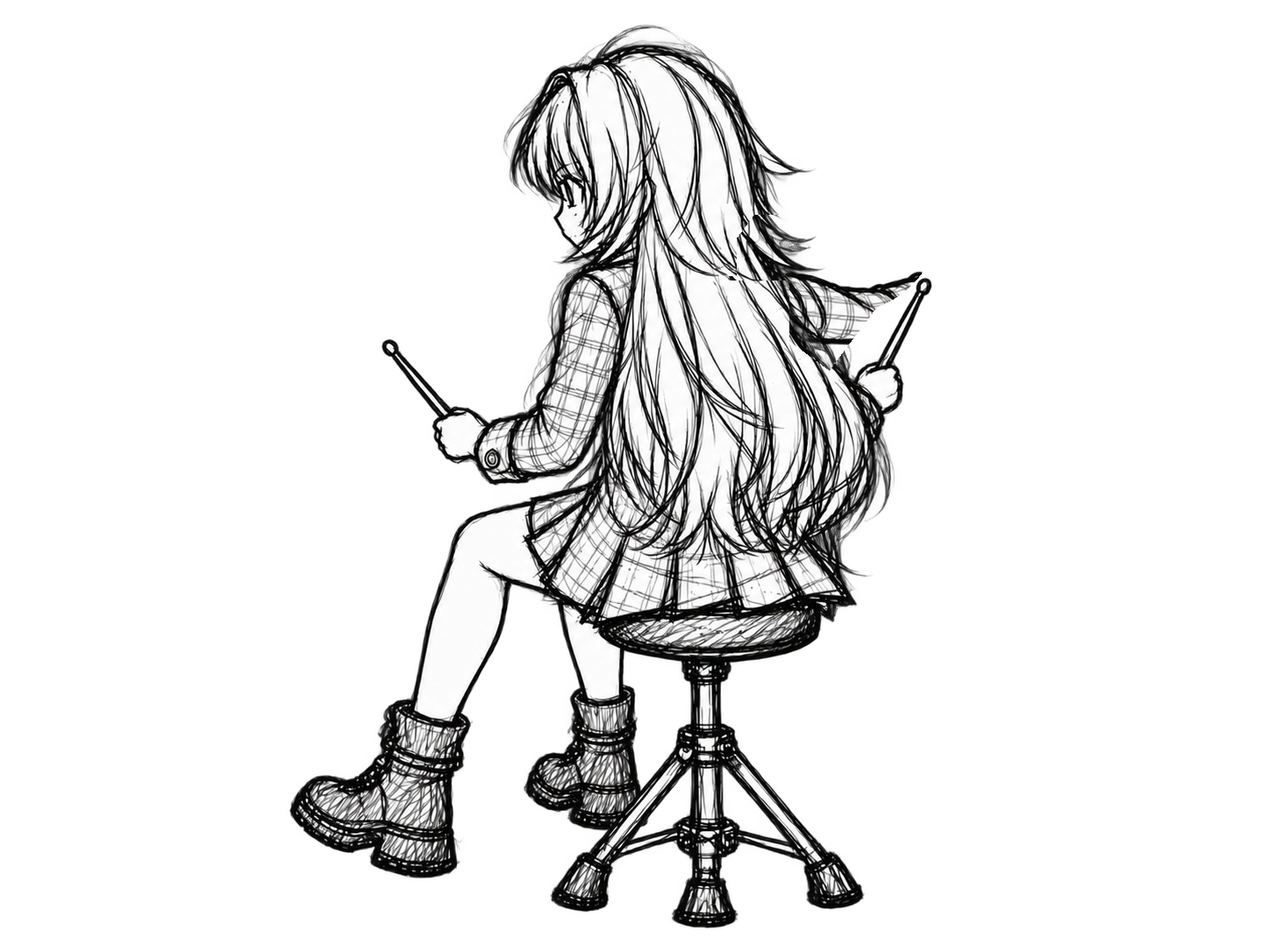
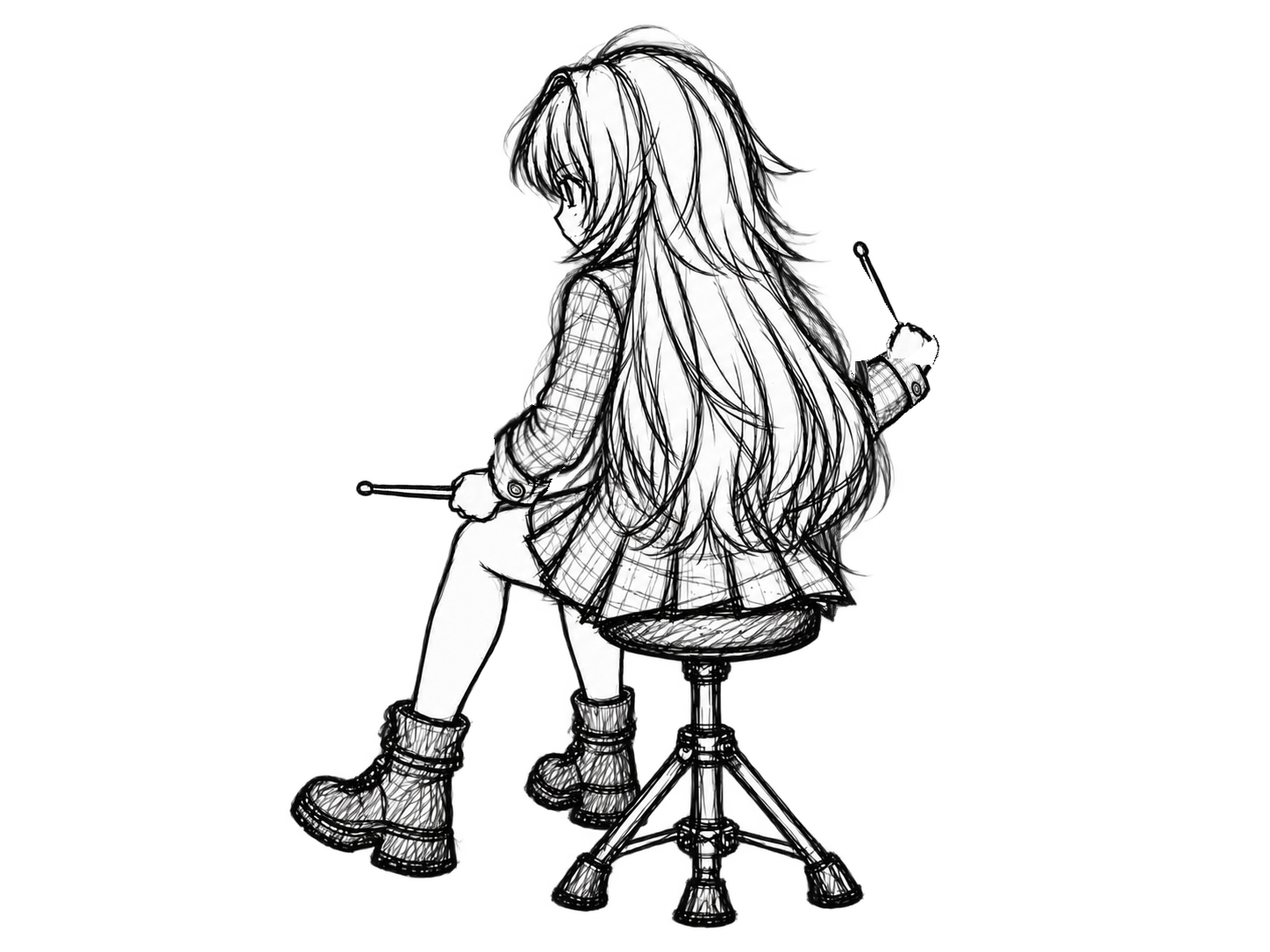
Add source-bound ride Hit/Rebound pairs and immutable kit occlusion layers; checkpoint 8 of 30 pairs

Changed region(s): [[0.5594, 0.2127, 0.7459, 0.4558], [0.2797, 0.4254, 0.4662, 0.547], [0.3108, 0.3646, 0.3419, 0.4254]]

diff --git a/site/character-prototype.js b/site/character-prototype.js
@@ -4,12 +4,12 @@ const DEFAULT_MEASURE_END=4;
 const LIMB_URL="./charts/luna_say_maybe/Luna_say_maybe_full_limbs.json";
 const INVENTORY_URL="./character-assets/prototypes/luna_say_maybe_16m/asset_inventory.json";
 const ASSET_ROOT="./character-assets";
-const ASSET_VERSION="20261008-six-pairs-r3";
+const ASSET_VERSION="20261008-occlusion-r4";
 const DRUM="./character-assets/layers/drum/drum_base.png";
 const assetUrl=src=>src+(src.includes("?")?"&":"?")+"v="+ASSET_VERSION;
 
 let data=null,lastKey="",lastEffectToken="",ready=false,activeSong=false;
-const els={root:null,drum:null,character:null,label:null,effect:null,bursts:[]};
+const els={root:null,drum:null,character:null,drumFront:null,characterFront:null,label:null,effect:null,bursts:[]};
 function updateDevHud(extra=""){
   const hud=document.getElementById("devBuildHud");
   if(!hud)return;
@@ -30,6 +30,35 @@ setInterval(()=>updateDevHud(),250);
 const EFFECT_POINTS={HH:[190,390],SN:[420,535],BD:[735,650],HT:[575,360],LT:[885,455],FT:[1165,535],RC:[1215,145],RD:[965,250]};
 
 function loadImage(src){return new Promise((resolve,reject)=>{const image=new Image();image.onload=()=>resolve(src);image.onerror=()=>reject(new Error("image HTTP/load failure: "+src));image.src=assetUrl(src)})}
+
+// The fixed kit remains immutable. Foreground kit pixels hide the torso/hair;
+// only the source arms and actual pose delta are drawn back above it.
+let foregroundNeutral=null,foregroundArmMask=null,foregroundScratch=null;
+async function initForegroundLayers(){
+  if(!els.drumFront||!els.characterFront)return;
+  els.drumFront.src=assetUrl(ASSET_ROOT+"/layers/drum/drum_foreground_occlusion.png");
+  const neutral=new Image();
+  await new Promise((resolve,reject)=>{neutral.onload=resolve;neutral.onerror=reject;neutral.src=assetUrl(ASSET_ROOT+"/layers/character/base/neutral.png")});
+  foregroundScratch=document.createElement("canvas");foregroundScratch.width=1448;foregroundScratch.height=1086;
+  const ctx=foregroundScratch.getContext("2d",{willReadFrequently:true});ctx.drawImage(neutral,0,0);
+  foregroundNeutral=ctx.getImageData(0,0,1448,1086).data;
+  ctx.clearRect(0,0,1448,1086);ctx.fillStyle="#fff";
+  for(const polygon of [
+    [[420,376],[474,380],[527,454],[575,465],[615,450],[630,370],[648,317],[710,320],[716,392],[699,465],[674,513],[632,557],[602,548],[581,552],[530,551],[493,529],[480,490],[420,418]],
+    [[1048,308],[1068,310],[1038,401],[1043,466],[1008,475],[984,455],[974,432],[989,415],[1004,414]]
+  ]){ctx.beginPath();polygon.forEach(([x,y],i)=>i?ctx.lineTo(x,y):ctx.moveTo(x,y));ctx.closePath();ctx.fill()}
+  foregroundArmMask=ctx.getImageData(0,0,1448,1086).data;
+  renderForegroundCharacter();
+}
+function renderForegroundCharacter(){
+  if(!foregroundNeutral||!els.characterFront||!els.character?.complete||!els.character.naturalWidth)return;
+  const ctx=foregroundScratch.getContext("2d",{willReadFrequently:true});ctx.clearRect(0,0,1448,1086);ctx.drawImage(els.character,0,0,1448,1086);
+  const frame=ctx.getImageData(0,0,1448,1086),pixels=frame.data;
+  for(let i=0;i<pixels.length;i+=4){if(!foregroundArmMask[i+3]&&pixels[i]===foregroundNeutral[i]&&pixels[i+1]===foregroundNeutral[i+1]&&pixels[i+2]===foregroundNeutral[i+2]&&pixels[i+3]===foregroundNeutral[i+3])pixels[i+3]=0}
+  els.characterFront.getContext("2d").putImageData(frame,0,0);
+  els.characterFront.dataset.frame=els.root?.dataset.frame||"neutral";
+}
+
 function markAssetIssue(src){if(!els.root)return;els.root.dataset.assetIssue=src||"unknown";els.root.classList.add("asset-warning")}
 function groupNotes(notes){const groups=[];for(const n of notes){const g=groups.at(-1);if(g&&Math.abs(n.time-g[0].time)<=.008)g.push(n);else groups.push([n])}return groups}
 function noteIdentity(note){return [Number(note?.time).toFixed(6),note?.part||""].join("|")}
@@ -39,7 +68,7 @@ function exactKeyFor(group){const notes=[...group].sort((a,b)=>a.part.localeComp
 function keyFor(group,frameMap=data?.frameMap){const exact=exactKeyFor(group);if(frameMap?.[exact])return exact;const parts=[...new Set(group.map(n=>n.part))].sort();if(parts.length>1){const combo=parts.join("+")+":*";if(frameMap?.[combo])return combo}return exact}
 function assetFor(group,phase="hit"){if(phase==="neutral")return data?.frames?.neutral?.path||"layers/character/base/neutral.png";const key=keyFor(group);const phases=data?.phaseFrameMap?.[key];const frameId=phases?.[phase]||data?.frameMap?.[key]||"neutral";return data?.frames?.[frameId]?.path||"layers/character/base/neutral.png"}
 function validatePrototypeCoverage(inventory,scopedNotes,groups){const scope=inventory.runtimeScope||{};if(scopedNotes.length!==Number(scope.noteCount||0))throw new Error("prototype note count mismatch");if(groups.length!==Number(scope.groupCount||0))throw new Error("prototype group count mismatch");if(scopedNotes.some(note=>!note.limb))throw new Error("prototype limb assignments missing");const expectedKeys=new Set(scope.expectedKeys||[]),actualKeys=new Set();for(const group of groups){const key=keyFor(group,inventory.runtimeFrameMap);actualKeys.add(key);if(!inventory.runtimeFrameMap?.[key])throw new Error("prototype frame missing for "+key);for(const phase of ["prep","hit","rebound"]){const frameId=inventory.runtimePhaseFrameMap?.[key]?.[phase];if(!frameId||!inventory.requiredFrames?.[frameId])throw new Error("prototype phase frame missing for "+key+"."+phase)}}const missing=[...expectedKeys].filter(key=>!actualKeys.has(key)),unexpected=[...actualKeys].filter(key=>!expectedKeys.has(key));if(missing.length||unexpected.length)throw new Error("prototype key mismatch missing="+missing.join(",")+" unexpected="+unexpected.join(","))}
-function setFrame(path,label="",phase="neutral"){if(!els.character)return;const src=assetUrl(ASSET_ROOT+"/"+path);if(lastKey!==src){lastKey=src;els.character.src=src}if(els.label)els.label.textContent=label;if(els.root){els.root.dataset.frame=path;els.root.dataset.pose=label;els.root.dataset.phase=phase}}
+function setFrame(path,label="",phase="neutral"){if(!els.character)return;const src=assetUrl(ASSET_ROOT+"/"+path);if(lastKey!==src){lastKey=src;if(els.characterFront)els.characterFront.getContext("2d").clearRect(0,0,1448,1086);els.character.src=src}if(els.label)els.label.textContent=label;if(els.root){els.root.dataset.frame=path;els.root.dataset.pose=label;els.root.dataset.phase=phase}}
 function normalizedPlaybackRate(playbackRate=1){
   const rate=Number(playbackRate);
   return Number.isFinite(rate)&&rate>0?rate:1;
@@ -81,8 +110,8 @@ function phaseFor(group,time,playbackRate=1){
   return "neutral";
 }
 function triggerEffect(group,phase){if(!els.effect)return;if(!group||phase!=="hit"){lastEffectToken="";els.effect.dataset.parts="";els.bursts.forEach(b=>b.classList.remove("is-active"));return}const token=String(group[0].time);if(token===lastEffectToken)return;lastEffectToken=token;const parts=[...new Set(group.map(n=>n.part))],points=parts.map(p=>EFFECT_POINTS[p]).filter(Boolean).slice(0,3);els.effect.dataset.parts=parts.join("+");els.bursts.forEach((burst,index)=>{burst.classList.remove("is-active");const point=points[index];if(!point)return;burst.setAttribute("transform",`translate(${point[0]} ${point[1]})`);void burst.getBoundingClientRect();burst.classList.add("is-active")})}
-export async function initCharacterPrototype(){els.root=document.getElementById("characterBackdrop");els.drum=document.getElementById("drumLayer");els.character=document.getElementById("characterLayer");els.label=document.getElementById("characterPoseLabel");els.effect=document.getElementById("effectLayer");els.bursts=[document.getElementById("effectPrimary"),document.getElementById("effectSecondary"),document.getElementById("effectTertiary")].filter(Boolean);if(!els.root||!els.drum||!els.character)return;els.drum.src=assetUrl(DRUM);els.character.src=assetUrl(ASSET_ROOT+"/layers/character/base/neutral.png");const fail=e=>{markAssetIssue(e?.target?.src||"dom-image-load");els.root.dataset.state="asset-warning"};els.drum.addEventListener("error",fail);els.character.addEventListener("error",fail);try{const [notesResponse,inventoryResponse,limbResponse]=await Promise.all([fetch(PROTOTYPE_URL,{cache:"no-store"}),fetch(INVENTORY_URL,{cache:"no-store"}),fetch(LIMB_URL,{cache:"no-store"})]);if(!notesResponse.ok)throw new Error("prototype HTTP "+notesResponse.status);if(!inventoryResponse.ok)throw new Error("inventory HTTP "+inventoryResponse.status);if(!limbResponse.ok)throw new Error("limb HTTP "+limbResponse.status);const [json,inventory,limbData]=await Promise.all([notesResponse.json(),inventoryResponse.json(),limbResponse.json()]);const limbMap=new Map((limbData.assignments||[]).map(item=>[[Number(item.time).toFixed(6),item.part||""].join("|"),item.limb]));for(const note of json.notes||[]){const resolved=limbMap.get(noteIdentity(note));if(resolved)note.limb=resolved}const startMeasure=Number(inventory.runtimeScope?.measureStart??DEFAULT_MEASURE_START),endMeasure=Number(inventory.runtimeScope?.measureEnd??DEFAULT_MEASURE_END);if(!Number.isInteger(startMeasure)||!Number.isInteger(endMeasure)||endMeasure<startMeasure)throw new Error("invalid inventory runtimeScope");const scopedNotes=(json.notes||[]).filter(note=>note.measure>=startMeasure&&note.measure<=endMeasure),groups=groupNotes(scopedNotes);validatePrototypeCoverage(inventory,scopedNotes,groups);data={...json,groups,frames:inventory.requiredFrames||{},frameMap:inventory.runtimeFrameMap||{},phaseFrameMap:inventory.runtimePhaseFrameMap||{},motionTiming:inventory.motionTiming||{},fallbackKeys:new Set(inventory.runtimeFallbackKeys||[]),startMeasure,endMeasure,prototypeEndTime:Math.max(...scopedNotes.map(note=>note.time),0)+.35};const sources=[
-  DRUM,
+export async function initCharacterPrototype(){els.root=document.getElementById("characterBackdrop");els.drum=document.getElementById("drumLayer");els.character=document.getElementById("characterLayer");els.drumFront=document.getElementById("drumFrontLayer");els.characterFront=document.getElementById("characterFrontLayer");els.label=document.getElementById("characterPoseLabel");els.effect=document.getElementById("effectLayer");els.bursts=[document.getElementById("effectPrimary"),document.getElementById("effectSecondary"),document.getElementById("effectTertiary")].filter(Boolean);if(!els.root||!els.drum||!els.character)return;els.drum.src=assetUrl(DRUM);els.character.src=assetUrl(ASSET_ROOT+"/layers/character/base/neutral.png");const fail=e=>{markAssetIssue(e?.target?.src||"dom-image-load");els.root.dataset.state="asset-warning"};els.drum.addEventListener("error",fail);els.character.addEventListener("error",fail);els.drumFront?.addEventListener("error",fail);els.character.addEventListener("load",renderForegroundCharacter);try{await initForegroundLayers();const [notesResponse,inventoryResponse,limbResponse]=await Promise.all([fetch(PROTOTYPE_URL,{cache:"no-store"}),fetch(INVENTORY_URL,{cache:"no-store"}),fetch(LIMB_URL,{cache:"no-store"})]);if(!notesResponse.ok)throw new Error("prototype HTTP "+notesResponse.status);if(!inventoryResponse.ok)throw new Error("inventory HTTP "+inventoryResponse.status);if(!limbResponse.ok)throw new Error("limb HTTP "+limbResponse.status);const [json,inventory,limbData]=await Promise.all([notesResponse.json(),inventoryResponse.json(),limbResponse.json()]);const limbMap=new Map((limbData.assignments||[]).map(item=>[[Number(item.time).toFixed(6),item.part||""].join("|"),item.limb]));for(const note of json.notes||[]){const resolved=limbMap.get(noteIdentity(note));if(resolved)note.limb=resolved}const startMeasure=Number(inventory.runtimeScope?.measureStart??DEFAULT_MEASURE_START),endMeasure=Number(inventory.runtimeScope?.measureEnd??DEFAULT_MEASURE_END);if(!Number.isInteger(startMeasure)||!Number.isInteger(endMeasure)||endMeasure<startMeasure)throw new Error("invalid inventory runtimeScope");const scopedNotes=(json.notes||[]).filter(note=>note.measure>=startMeasure&&note.measure<=endMeasure),groups=groupNotes(scopedNotes);validatePrototypeCoverage(inventory,scopedNotes,groups);data={...json,groups,frames:inventory.requiredFrames||{},frameMap:inventory.runtimeFrameMap||{},phaseFrameMap:inventory.runtimePhaseFrameMap||{},motionTiming:inventory.motionTiming||{},fallbackKeys:new Set(inventory.runtimeFallbackKeys||[]),startMeasure,endMeasure,prototypeEndTime:Math.max(...scopedNotes.map(note=>note.time),0)+.35};const sources=[
+  DRUM, ASSET_ROOT+"/layers/drum/drum_foreground_occlusion.png",
   ...[...new Set(Object.values(data.frames).map(frame=>ASSET_ROOT+"/"+frame.path))]
 ];let loadedSources=0;window.dispatchEvent(new CustomEvent("dtx-preload-progress",{detail:{kind:"character",done:0,total:sources.length,ratio:0,label:"人物画像を読み込み中"}}));const preloadResults=await Promise.allSettled(sources.map(async src=>{try{return await loadImage(src)}finally{loadedSources++;window.dispatchEvent(new CustomEvent("dtx-preload-progress",{detail:{kind:"character",done:loadedSources,total:sources.length,ratio:sources.length?loadedSources/sources.length:1,label:"人物画像を読み込み中"}}))}}));const failedSources=preloadResults.map((result,index)=>result.status==="rejected"?sources[index]:null).filter(Boolean);window.dispatchEvent(new CustomEvent("dtx-preload-progress",{detail:{kind:"character",done:sources.length,total:sources.length,ratio:1,label:failedSources.length?"人物画像の一部で読み込み失敗":"人物画像の読み込み完了",failed:failedSources.length}}));if(failedSources.length){markAssetIssue(failedSources.join(","));console.warn("character asset preload warning",failedSources)}ready=true;els.root.classList.add("character-ready");els.root.dataset.state=failedSources.length?"ready-with-asset-warning":"ready";els.root.dataset.scope=`${startMeasure}-${endMeasure}`;els.root.dataset.runtimeScope=`${startMeasure}-${endMeasure}`;els.root.dataset.noteCount=String(scopedNotes.length);els.root.dataset.groupCount=String(groups.length);updateDevHud("preload:ok")}catch(err){window.dispatchEvent(new CustomEvent("dtx-preload-progress",{detail:{kind:"character",ratio:1,label:"人物画像の初期化に失敗",failed:1}}));console.warn("character prototype initialization warning",err);els.root.dataset.state="init-warning";els.root.dataset.initError=String(err?.message||err);updateDevHud("init:warning");ready=true;els.root.classList.add("character-ready","asset-warning")}addEventListener("dtx-chart-change",e=>{activeSong=String(e.detail?.name||"").toLowerCase().includes("luna");els.root.classList.toggle("active",activeSong)})}
 export function updateCharacterPrototype(time,chartName="",playbackRate=1){if(!els.root)return;els.root.dataset.currentTime=Number(time||0).toFixed(6);activeSong=String(chartName||"").toLowerCase().includes("luna");const provisionalEnd=Number(data?.prototypeEndTime??10.47),inWindow=Number(time)>=0&&Number(time)<=provisionalEnd;els.root.classList.toggle("active",activeSong&&inWindow);els.root.dataset.active=String(activeSong&&inWindow);if(!ready||!data)return;if(!activeSong||!inWindow){triggerEffect(null,"neutral");return}const g=findGroupAt(time,playbackRate);if(!g){els.root.dataset.measure="";els.root.dataset.fallback="false";els.root.dataset.fallbackReason="";els.root.dataset.animationKey="neutral";els.root.dataset.limbs="";triggerEffect(null,"neutral");setFrame(data.frames.neutral.path,"NEUTRAL","neutral");return}const phase=phaseFor(g,time,playbackRate),resolvedKey=keyFor(g),fallback=fallbackInfo(g);els.root.dataset.measure=String(g[0]?.measure??"");els.root.dataset.fallback=String(fallback.fallback);els.root.dataset.fallbackReason=fallback.reason;els.root.dataset.animationKey=resolvedKey;els.root.dataset.limbs=g.map(n=>n.part+":"+handForNote(n)).join(",");const asset=assetFor(g,phase);const parts=[...new Set(g.map(n=>n.part))].sort().join("+"),hand=[...g].sort((a,b)=>a.part.localeCompare(b.part)).map(n=>handForNote(n)).filter(Boolean).join("/");triggerEffect(g,phase);setFrame(asset,phase==="neutral"?"NEUTRAL":parts+(hand?" · "+hand:"")+" · "+phase.toUpperCase(),phase);updateDevHud()}

diff --git a/site/index.html b/site/index.html
@@ -5,7 +5,7 @@
   <meta name="viewport" content="width=device-width,initial-scale=1,viewport-fit=cover,user-scalable=no">
   <meta name="theme-color" content="#2516ff">
   <title>DTX Drum Flow — FINAL Charts</title>
-  <link rel="stylesheet" href="./styles.css?v=20261008-six-pairs-r3">
+  <link rel="stylesheet" href="./styles.css?v=20261008-occlusion-r4">
   <style>
     :root{--luna-blue:#2516ff;--luna-ink:#070716;--luna-ivory:#f7f3ea;--luna-lime:#baff00}
     html,body{background:var(--luna-ink)}
@@ -33,7 +33,7 @@
       <label class="button huge secondary audio-picker">元音源を選ぶ<input id="audioFile" type="file" accept="audio/*" hidden></label>
       <div class="summary"><strong id="chartName">Luna say maybe FINAL 読み込み中…</strong><span id="chartMeta">BPM 139 · 2,158ノーツ</span></div>
     </section>
-    <section class="stage panel"><div class="stage-head"><span id="stageTitle">LUNA / DRUM CHART</span><span id="currentTime">0:00.0</span></div><div id="characterBackdrop" class="character-backdrop" aria-hidden="true"><img id="drumLayer" class="character-layer drum-layer" alt=""><img id="characterLayer" class="character-layer person-layer" alt=""><svg id="effectLayer" class="effect-layer" viewBox="0 0 1448 1086" preserveAspectRatio="xMidYMid meet"><g id="effectPrimary" class="effect-burst"><circle r="54"></circle><path d="M0-108V-72M76-76L51-51M108 0H72M76 76L51 51M0 108V72M-76 76L-51 51M-108 0H-72M-76-76L-51-51"></path></g><g id="effectSecondary" class="effect-burst"><circle r="54"></circle><path d="M0-108V-72M76-76L51-51M108 0H72M76 76L51 51M0 108V72M-76 76L-51 51M-108 0H-72M-76-76L-51-51"></path></g><g id="effectTertiary" class="effect-burst"><circle r="54"></circle><path d="M0-108V-72M76-76L51-51M108 0H72M76 76L51 51M0 108V72M-76 76L-51 51M-108 0H-72M-76-76L-51-51"></path></g></svg><span id="characterPoseLabel" class="character-pose-label"></span></div><canvas id="laneCanvas" aria-label="縦に流れるドラム譜面"></canvas><div class="seek-zone left" aria-label="4小節戻る"></div><div class="seek-zone right" aria-label="4小節進む"></div><div id="parts" class="parts" aria-label="ドラムパート"></div></section>
+    <section class="stage panel"><div class="stage-head"><span id="stageTitle">LUNA / DRUM CHART</span><span id="currentTime">0:00.0</span></div><div id="characterBackdrop" class="character-backdrop" aria-hidden="true"><img id="drumLayer" class="character-layer drum-layer" alt=""><img id="characterLayer" class="character-layer person-layer" alt=""><img id="drumFrontLayer" class="character-layer drum-front-layer" alt=""><canvas id="characterFrontLayer" class="character-layer character-front-layer" width="1448" height="1086"></canvas><svg id="effectLayer" class="effect-layer" viewBox="0 0 1448 1086" preserveAspectRatio="xMidYMid meet"><g id="effectPrimary" class="effect-burst"><circle r="54"></circle><path d="M0-108V-72M76-76L51-51M108 0H72M76 76L51 51M0 108V72M-76 76L-51 51M-108 0H-72M-76-76L-51-51"></path></g><g id="effectSecondary" class="effect-burst"><circle r="54"></circle><path d="M0-108V-72M76-76L51-51M108 0H72M76 76L51 51M0 108V72M-76 76L-51 51M-108 0H-72M-76-76L-51-51"></path></g><g id="effectTertiary" class="effect-burst"><circle r="54"></circle><path d="M0-108V-72M76-76L51-51M108 0H72M76 76L51 51M0 108V72M-76 76L-51 51M-108 0H-72M-76-76L-51-51"></path></g></svg><span id="characterPoseLabel" class="character-pose-label"></span></div><canvas id="laneCanvas" aria-label="縦に流れるドラム譜面"></canvas><div class="seek-zone left" aria-label="4小節戻る"></div><div class="seek-zone right" aria-label="4小節進む"></div><div id="parts" class="parts" aria-label="ドラムパート"></div></section>
     <section class="timeline-card panel"><input id="timeline" type="range" min="0" max="266.945306" value="0" step="0.001" aria-label="再生位置"><div class="time-row"><span>現在 <strong id="currentTimeMirror">0:00.0</strong></span><span>終了 <strong id="duration">4:26.9</strong></span></div></section>
     <section class="sound-controls panel" aria-label="音の切り替え"><label class="sound-toggle"><input id="drumSound" type="checkbox" checked><span>ドラム</span><strong id="drumSoundState">ON</strong></label><label class="sound-toggle"><input id="metronomeSound" type="checkbox"><span>メトロノーム</span><strong id="metronomeSoundState">OFF</strong></label><label class="sound-toggle"><input id="originalSound" type="checkbox" checked><span>原曲</span><strong id="originalSoundState">ON</strong></label></section>
     <details class="panel dev-audio-mixer"><summary>開発用・ドラム音量調整</summary><div id="devAudioMixer" class="dev-audio-mixer-body"></div><div class="dev-audio-actions"><button id="devAudioReset" class="button">完成音量へ戻す</button></div></details>
@@ -42,8 +42,8 @@
     <section class="panel status-panel"><h2>STATUS</h2><p id="status">FINAL譜面を自動読み込みしています…</p></section>
   </main>
   <nav class="mobile-transport" aria-label="再生操作"><button id="rewindMeasure" class="transport-side">−4小節</button><button id="playPause" class="transport-play is-loading" disabled aria-disabled="true" style="--play-load:0%">読み込み中 0%</button><button id="forwardMeasure" class="transport-side">＋4小節</button></nav>
-  <script type="module" src="./app.js?v=20261008-six-pairs-r3"></script>
-  <script type="module" src="./original-audio.js?v=20261008-six-pairs-r3"></script>
+  <script type="module" src="./app.js?v=20261008-occlusion-r4"></script>
+  <script type="module" src="./original-audio.js?v=20261008-occlusion-r4"></script>
   <script>setTimeout(()=>{if(!window.__DTX_APP_READY__){const s=document.getElementById("status");if(s)s.textContent="アプリ本体の読み込みに失敗しました。ページを再読み込みしてください。";}},1500);</script>
   <script src="./version-switcher.js?v=20260920-prepost-r1" defer></script>\n</body>
 </html>

diff --git a/site/styles.css b/site/styles.css
@@ -63,9 +63,10 @@ button,label.button,summary{touch-action:manipulation}
   position:absolute;inset:0;width:100%;height:100%;object-fit:contain;
   object-position:center center;user-select:none;
 }
-.drum-layer{z-index:0}.person-layer{z-index:1}
+.drum-layer{z-index:0}.person-layer{z-index:1}.drum-front-layer{z-index:2}
+.stage canvas.character-front-layer{position:absolute;inset:0;width:100%;height:100%;z-index:3;object-fit:contain;object-position:center;background:transparent;pointer-events:none}
 .effect-layer{
-  position:absolute;inset:0;width:100%;height:100%;z-index:2;overflow:visible;
+  position:absolute;inset:0;width:100%;height:100%;z-index:4;overflow:visible;
   filter:drop-shadow(0 0 8px #baff00);mix-blend-mode:screen
 }
 .effect-burst{opacity:0;transform-box:fill-box;transform-origin:center}
@@ -78,7 +79,7 @@ button,label.button,summary{touch-action:manipulation}
   100%{opacity:0;scale:1.55;rotate:10deg}
 }
 .character-pose-label{
-  position:absolute;right:6px;top:6px;z-index:3;padding:2px 5px;
+  position:absolute;right:6px;top:6px;z-index:5;padding:2px 5px;
   background:#0009;color:#fff;font-size:9px;border-radius:4px
 }
 .stage canvas{

diff --git a/site/app.js b/site/app.js
@@ -2,7 +2,7 @@ import {makeSample,parseChart} from "./parsers.js";
 import {decodeAudio,analyzeOnsets,realignNotes} from "./audio-analysis.js";
 import {LiveDrumEngine} from "./live-drum-engine.js?v=20260920-chart-preload-r2";
 import {applyDrumVoice} from "./drum-note-sound-map.js?v=20260919-audio-final-r21";
-import {initCharacterPrototype,updateCharacterPrototype} from "./character-prototype.js?v=20261008-six-pairs-r3";
+import {initCharacterPrototype,updateCharacterPrototype} from "./character-prototype.js?v=20261008-occlusion-r4";
 
 const PARTS=["LB","LC","HH","LP","SN","BD","HT","LT","FT","RD","RC"];
 const PART_LABEL={LC:"左シンバル",HH:"ハイハット",SN:"スネア",HT:"ハイタム",LT:"ロータム",FT:"フロアタム",RC:"右シンバル",RD:"ライド",LP:"左足HH",LB:"左足BD",BD:"バスドラム"};

diff --git a/character-assets/production/20261008/scripts/promote_rd_and_occlusion.py b/character-assets/production/20261008/scripts/promote_rd_and_occlusion.py
@@ -1,0 +1,27 @@
+from pathlib import Path
+from PIL import Image
+import numpy as np,json,hashlib,shutil
+O=Path('work_output');R=Path('repo'); prod=R/'character-assets/production/20261008'
+lh=np.array(Image.open(O/'variants/sn/hit_l_candidate_v3.png'));lr=np.array(Image.open(O/'variants/sn/rebound_l_candidate_v3.png'));delta=np.any(lh!=lr,axis=2)
+(O/'variants/combo').mkdir(exist_ok=True)
+for phase in ['hit','rebound']:
+ a=np.array(Image.open(O/f'variants/rd/{phase}_r_local_v2.png'))
+ if phase=='rebound':a[delta]=lr[delta]
+ Image.fromarray(a).save(O/f'variants/combo/rd_sn_r_l_{phase}_v1.png')
+invp=R/'character-assets/prototypes/luna_say_maybe_16m/asset_inventory.json';inv=json.loads(invp.read_text());mp=R/'character-assets/config/assets_manifest.json';m=json.loads(mp.read_text());matrix=json.loads((O/'ledger/motion_matrix.json').read_text());mapping={}
+for key in ['RD:R','RD+SN:R/L']:
+ for phase in ['hit','rebound']:
+  frameid=inv['runtimePhaseFrameMap'][key][phase];entry=inv['requiredFrames'][frameid];target=R/'character-assets'/entry['path'];src=O/(f'variants/rd/{phase}_r_local_v2.png' if key=='RD:R' else f'variants/combo/rd_sn_r_l_{phase}_v1.png');shutil.copyfile(src,target);sha=hashlib.sha256(target.read_bytes()).hexdigest();entry.update(sha256=sha,state='ready',qaStatus='STATIC_VISUAL_PASS_LIVE_PENDING');mapping[str(target.relative_to(R))]=str(src)
+  for asset in m['assets']:
+   if asset['path']==str(target.relative_to(R)):asset.update(sha256=sha,status='SOURCE_BOUND_STATIC_QA_PASS',notes=['20261008 source-bound RD pair; live QA pending'])
+ for a in matrix['actions']:
+  if a['runtime_key']==key:a.update(status='STATIC_QA_PASSED_LIVE_PENDING',new_hit='variants/rd/hit_r_local_v2.png' if key=='RD:R' else 'variants/combo/rd_sn_r_l_hit_v1.png',new_rebound='variants/rd/rebound_r_local_v2.png' if key=='RD:R' else 'variants/combo/rd_sn_r_l_rebound_v1.png')
+inv['version']+=1; inv['scope']='Luna full chart measures 1-148; 8 source-bound pairs static passed, 4 pairs live verified';invp.write_text(json.dumps(inv,ensure_ascii=False,indent=2)+'\n');mp.write_text(json.dumps(m,ensure_ascii=False,indent=2)+'\n');(O/'ledger/motion_matrix.json').write_text(json.dumps(matrix,ensure_ascii=False,indent=2)+'\n');(O/'qa/rd_promote_mapping.json').write_text(json.dumps(mapping,indent=2))
+fixed=np.array(Image.open(O/'sources/drum_fixed.png').convert('RGBA'));fore=np.array(Image.open(O/'sources/drum_foreground_occlusion.png').convert('RGBA'));mask=fore[:,:,3]>0
+q={'status':'PIXEL_PROVENANCE_PASS_RENDER_PENDING','foreground_selected_pixel_mismatches':int(np.count_nonzero(np.any(fixed[mask]!=fore[mask],axis=1))),'original_drum_sha256':hashlib.sha256((O/'sources/drum_fixed.png').read_bytes()).hexdigest(),'foreground_file_sha256':hashlib.sha256((O/'sources/drum_foreground_occlusion.png').read_bytes()).hexdigest(),'draw_order':['original fixed drum','complete original-pose character','verbatim selected drum pixels','same character arm pixels only','effects'],'note':'No drum line is edited. Torso/hair behind selected drums; validated moving arms/sticks in front. Browser performance/visual verification pending.'}
+(O/'qa/occlusion_provenance.json').write_text(json.dumps(q,indent=2))
+for sub in ['qa','scripts','ledger']:(prod/sub).mkdir(parents=True,exist_ok=True)
+for f in ['qa/rd_r_local_v2.json','qa/occlusion_provenance.json','scripts/make_rd_pair.py','scripts/test_occlusion.py','scripts/promote_rd_and_occlusion.py','ledger/motion_matrix.json']:shutil.copyfile(O/f,prod/f)
+p=R/'character-assets/production/WORK_RESUME_20261008.md'
+p.write_text('''# 作業再開入口 — 2026-10-08\n\n**全作業は未完了です。** 目標はLuna全30動作60枚を自然な人体・固定ドラムで完成し公開Webで検証することです。\n\n## 現在の状態\n- 30動作60位相の既存Web切替と画像読み込みを実測済み。描画成功と絵の合格は別です。\n- 新しい静的QA合格は8ペア16枚: SN:L、SN:R、HH:R、HH+SN:R/L、RC:R、RC+SN:R/L、RD:R、RD+SN:R/L。最初の4ペア8位相は公開Webでも検証済み。残り22ペア。RC/RDと新しい前後合成は公開検証待ち。\n- 固定ドラムと承認NeutralのSHAは不変。髪・胴・脚・近い腕を保護し、必要な腕だけ局所編集。全身AI出力は完成画像として採用しない。\n- 413過去画像の一覧と分類: 20261008/ledger/image_audit.json。個別拡大未完了の判定保留を成功donorとして使わない。\n- RDの最初のAI生成は打点が高すぎて不合格。元Neutralの手とスティックを局所変形したv2を使用。HT:L試作は袖の白い切れと残像で不合格。\n- ドラム原画の一部RGBAをそのまま複製した前景PNGと腕前景canvasで、髪/身体をタム・ライドの後ろに置く合成処理を追加。原画改変ではない。公開Webの見た目・性能の検証は次の作業。\n\n## 保存場所\n入口: character-assets/production/WORK_RESUME_20261008.md\n詳細: character-assets/production/20261008/{ledger,qa,scripts,donors}/\n正式画像: character-assets/layers/character/ 各楽器とcombo。\n入力: DTX_Drum_Flow_Work_素材一式と制作仕様書_20261008.zip、libfile_cb32a71ec6688191b3cd32ae3785f0b9。指定名WORK_MASTER_SPEC_REVISED.mdはZIPになく、同梱WORK_MASTER_SPEC.mdとユーザー1〜10を適用。\n\n## 再開手順\n1. 最新mainとこの入口、ledger/motion_matrix.jsonを読む。公開サイトのcache version 20261008-occlusion-r4 と前景レイヤーを確認。8ペア16位相を実測し、人体と打点も画面で確認。\n2. LT:Rの局所腕生成が進行中。scratchに結果がなければcanonical Neutralと固定原画から再生成。赤いガイドは参考だけで完成画像に含めない。LT打面は885,416付近、旧885,455は側面。\n3. HT左右、LT左右、FT左右、BD右足を制作し、合格部位だけ組み合わせて残22ペアを制作。BD旧735,650はドラム面で足の打点ではない。実際のペダル板を使用。\n4. 各ペアで人体・同一人物・Hit接触・Rebound離隔・固定部分を検査し、不合格は修正。GitHubに実体・台帳・失敗理由・次位置を保存する。\n5. 公開Webの全30動作60位相と再生、PC/モバイルを検証。画像の合格と読み込みの合格を区別する。\n\n## 確定したチェック\ncommit41635d06b706d8e399821f9ff80b369c87c3bc19のvalidateとRuntime Pose SN-L Source QAはGitHub Actions SUCCESS。以後の変更は改めて確認。画像の独立したReboundを使うようSN:R設定を修正済み。\n''')
+print(mapping,q)

diff --git a/character-assets/production/20261008/scripts/make_rd_pair.py b/character-assets/production/20261008/scripts/make_rd_pair.py
@@ -1,0 +1,13 @@
+from PIL import Image,ImageDraw
+import numpy as np,math,json
+from scipy.ndimage import affine_transform
+from pathlib import Path
+O=Path('work_output');s=np.array(Image.open(O/'variants/sn/hit_l_candidate_v3.png'));n=np.array(Image.open(O/'sources/neutral.png'));rc=np.array(Image.open(O/'sources/right_outward_arm_donor.png'));old=np.array(Image.open(O/'variants/hh/hit_r_local_edit_v4.png'));base=s.copy();om=Image.new('L',(1448,1086));ImageDraw.Draw(om).polygon([(975,412),(995,409),(1045,306),(1068,307),(1070,342),(1036,407),(1044,458),(1012,486),(998,492),(985,453),(975,435)],fill=255);o=np.array(om)>0;base[o]=old[o]
+hmask=Image.new('L',(1448,1086));ImageDraw.Draw(hmask).polygon([(1050,310),(1068,314),(1019,420),(1029,422),(1036,438),(1033,461),(1024,470),(1006,458),(992,445),(978,430),(990,418),(1004,414),(1016,414)],fill=255);hm=np.array(hmask)>0;hand=np.zeros_like(n);hand[hm]=n[hm]
+# Reconnect the wrist edge hidden by hair in the original donor; tiny local pencil trace only.
+hi=Image.fromarray(hand);hd=ImageDraw.Draw(hi);hd.polygon([(989,445),(1001,448),(1027,455),(1028,466),(1020,473),(1007,475),(995,461)],fill=(255,255,255,255));hd.line([(1031,453),(1029,460),(1025,466),(1019,470),(1007,474)],fill=(35,35,35,255),width=2);hd.line([(1030,455),(1028,461),(1023,467),(1017,472),(1006,473)],fill=(110,110,110,230),width=1);hand=np.array(hi)
+fm=Image.new('L',(1448,1086));ImageDraw.Draw(fm).polygon([(997,334),(1038,311),(1096,269),(1128,271),(1143,291),(1138,320),(1083,368),(1043,407),(1006,418),(991,393)],fill=255);ff=np.array(fm)>0;fore=np.zeros_like(rc);fore[ff]=rc[ff];E=np.array([1008.,382.]);W=np.array([1128.,280.]);dW=W-E;u=dW/np.linalg.norm(dW);v=np.array([-u[1],u[0]]);U=np.stack([u,v],axis=1)
+hair=Image.new('L',(1448,1086));ImageDraw.Draw(hair).polygon([(875,260),(921,300),(985,400),(1001,490),(951,625),(900,656),(842,566),(820,385)],fill=255);protect=(np.array(hair)>0)&(base[:,:,3]>0);qa={}
+for phase,angle in [('hit',50),('rebound',30)]:
+ rotated=Image.fromarray(hand).rotate(angle,Image.Resampling.BICUBIC,center=(1000,442),expand=False);translated=Image.new('RGBA',(1448,1086));translated.alpha_composite(rotated,(35,-42));th=-math.radians(angle);rot=np.array([[math.cos(th),-math.sin(th)],[math.sin(th),math.cos(th)]]);newE=np.array([975.,465.]);newW=np.array([1035.,400.])+rot.dot(np.array([3.,18.]));newu=(newW-newE)/np.linalg.norm(newW-newE);newv=np.array([-newu[1],newu[0]]);M=np.stack([newu*np.linalg.norm(newW-newE)/np.linalg.norm(dW),newv],axis=1).dot(U.T);iv=np.linalg.inv(M);off=E-iv.dot(newE);mat=iv[::-1,::-1];offs=off[::-1];sleeve=np.stack([affine_transform(fore[:,:,c],mat,offset=offs,output_shape=(1086,1448),order=1) for c in range(4)],axis=2);a=np.array(Image.alpha_composite(Image.fromarray(base),Image.fromarray(sleeve)));a[protect]=base[protect];a=np.array(Image.alpha_composite(Image.fromarray(a),translated));im=Image.fromarray(a);(O/'variants/rd').mkdir(exist_ok=True);im.save(O/f'variants/rd/{phase}_r_local_v2.png');dr=Image.open(O/'sources/drum_fixed.png').convert('RGBA');bg=Image.new('RGBA',dr.size,'white');bg.alpha_composite(dr);bg.alpha_composite(im);bg.convert('RGB').save(O/f'previews/rd_r_{phase}_local_v2.png');qa[phase]={'tip':(np.array([1035.,400.])+rot.dot(np.array([55.,-116.]))).tolist(),'wrist':newW.tolist(),'visual_status':'PENDING'}
+(O/'qa/rd_r_local_v2.json').write_text(json.dumps(qa,indent=2))

diff --git a/character-assets/production/20261008/scripts/test_occlusion.py b/character-assets/production/20261008/scripts/test_occlusion.py
@@ -1,0 +1,9 @@
+from PIL import Image,ImageDraw
+from pathlib import Path
+import numpy as np
+O=Path('work_output');dr=Image.open(O/'sources/drum_fixed.png').convert('RGBA');n=np.array(Image.open(O/'sources/neutral.png').convert('RGBA'));m=Image.new('L',dr.size);d=ImageDraw.Draw(m)
+for pts in [[(604,252),(716,215),(774,207),(778,176),(817,173),(830,211),(966,216),(1001,280),(975,312),(854,346),(687,334),(610,315)],[(735,405),(773,380),(895,378),(967,399),(995,425),(979,489),(961,566),(893,585),(780,570),(727,553)],[(346,542),(377,518),(541,508),(619,522),(642,551),(614,684),(572,707),(404,700),(355,665)]]:d.polygon(pts,fill=255)
+a=np.array(dr);a[np.array(m)==0]=0;fore=Image.fromarray(a);fore.save(O/'sources/drum_foreground_occlusion.png');m.save(O/'qa/drum_foreground_mask.png')
+am=Image.new('L',dr.size);ad=ImageDraw.Draw(am);ad.polygon([(420,376),(474,380),(527,454),(575,465),(615,450),(630,370),(648,317),(710,320),(716,392),(699,465),(674,513),(632,557),(602,548),(581,552),(530,551),(493,529),(480,490),(420,418)],fill=255);ad.polygon([(1048,308),(1068,310),(1038,401),(1043,466),(1008,475),(984,455),(974,432),(989,415),(1004,414)],fill=255);arm=np.array(am)>0
+for name,path in [('neutral','sources/neutral.png'),('hh_sn','variants/combo/hh_sn_r_l_hit_v1.png'),('rc','variants/rc/hit_r_local_v1.png'),('rd','variants/rd/hit_r_local_v2.png')]:
+ c=np.array(Image.open(O/path).convert('RGBA'));move=np.any(c!=n,axis=2)|arm;front=c.copy();front[~move]=0;bg=Image.new('RGBA',dr.size,'white');bg.alpha_composite(dr);bg.alpha_composite(Image.fromarray(c));bg.alpha_composite(fore);bg.alpha_composite(Image.fromarray(front));bg.convert('RGB').save(O/f'previews/occlusion_{name}.png')

diff --git a/character-assets/production/WORK_RESUME_20261008.md b/character-assets/production/WORK_RESUME_20261008.md
@@ -1,38 +1,27 @@
 # 作業再開入口 — 2026-10-08
 
-目標: 動画と承認Neutralに基づく同一人物、固定ドラム、自然なHit/Reboundを全必要動作について制作し、公開Web背景で検証する。全作業完了ではありません。
+**全作業は未完了です。** 目標はLuna全30動作60枚を自然な人体・固定ドラムで完成し公開Webで検証することです。
 
-## 現在の実績
-- Luna最新実装は2,158ノーツ・1,527グループ・30動作・60枚。汎用全曲の全組合せではありません。
-- 新規静的QA合格: SN:L、SN:R、HH:R、HH+SN:R/L、RC:R、RC+SN:R/L の6ペア12枚。commit 3b61f8c9bdca7cda2ebc61fc3e6f2d3b2eb8334b で公開反映済み。8位相のキー/位相/新画像読み込みを公開Webで実測PASS。再生/一時停止で時刻と背景更新も確認。
-- 公開Webの従来画像を30動作60位相で操作検証: キー/位相60件一致、画像60件読み込み。SN:Rは旧設定でReboundにもHit画像を使用していたため、今回独立Reboundへ修正。表示テストは絵の合格判定とは別。
-- 固定ドラムSHA256 dadc9764acebc0fc3db3c661ffa0929fb6a3c4cc7b03b27e10920ce796efed85 は不変。Neutral SHA256 886e3490bb926b496d95eb1f8fb2e1ecc69859fdba35d1b13858fe8f31dd39e9 は不変。
-- 413旧画像の機械検査・一覧確認・3分類はledger/image_audit.json。判定保留は個別拡大未完了で、合格donorとして使わない。旧SN:L、旧HH:Rと旧HH:Lを正しい参考にしない。
-- HT:Lの局所試作は袖/肘の白い切れと残像があり不合格。HH v3以前も不合格。
-
-## 固定キャラクター基準
-仕様3.4に従い承認Neutralの座標と描線を優先。動画は髪・チェック上着・プリーツ・ブーツの照合に使用。動画は演奏映像ではない。遠い側の右肩は髪に隠れているため推定。右腕は近い左肩の線を編集せず、その背後から前腕を見せる。人物全体のAI再生成出力は採用せず、右腕局所だけ移植し保護領域を元画像へ戻した。
+## 現在の状態
+- 30動作60位相の既存Web切替と画像読み込みを実測済み。描画成功と絵の合格は別です。
+- 新しい静的QA合格は8ペア16枚: SN:L、SN:R、HH:R、HH+SN:R/L、RC:R、RC+SN:R/L、RD:R、RD+SN:R/L。最初の4ペア8位相は公開Webでも検証済み。残り22ペア。RC/RDと新しい前後合成は公開検証待ち。
+- 固定ドラムと承認NeutralのSHAは不変。髪・胴・脚・近い腕を保護し、必要な腕だけ局所編集。全身AI出力は完成画像として採用しない。
+- 413過去画像の一覧と分類: 20261008/ledger/image_audit.json。個別拡大未完了の判定保留を成功donorとして使わない。
+- RDの最初のAI生成は打点が高すぎて不合格。元Neutralの手とスティックを局所変形したv2を使用。HT:L試作は袖の白い切れと残像で不合格。
+- ドラム原画の一部RGBAをそのまま複製した前景PNGと腕前景canvasで、髪/身体をタム・ライドの後ろに置く合成処理を追加。原画改変ではない。公開Webの見た目・性能の検証は次の作業。
 
 ## 保存場所
-この入口: character-assets/production/WORK_RESUME_20261008.md
-詳細: character-assets/production/20261008/
-正式画像: character-assets/layers/character/{sn,hh,combo}/ (今回の4ペアだけ更新)
-過去素材は親commit cbfd7bcbe3f634f65136b73b25043cd2c3a4f73f の履歴に残る。
-入力ZIP: DTX_Drum_Flow_Work_素材一式と制作仕様書_20261008.zip、libfile_cb32a71ec6688191b3cd32ae3785f0b9。
-前回チェックポイントZIP: libfile_44bac41a53bc8191b747aff3e2c80c12。
-指定名 WORK_MASTER_SPEC_REVISED.md は入力ZIPに存在せず、同梱 WORK_MASTER_SPEC.md と今回ユーザーの1〜10を適用した。
+入口: character-assets/production/WORK_RESUME_20261008.md
+詳細: character-assets/production/20261008/{ledger,qa,scripts,donors}/
+正式画像: character-assets/layers/character/ 各楽器とcombo。
+入力: DTX_Drum_Flow_Work_素材一式と制作仕様書_20261008.zip、libfile_cb32a71ec6688191b3cd32ae3785f0b9。指定名WORK_MASTER_SPEC_REVISED.mdはZIPになく、同梱WORK_MASTER_SPEC.mdとユーザー1〜10を適用。
 
-## 次に行うこと
-1. この入口、20261008/qa、ledger/motion_matrix.json を読み、最新mainとの差を調べる。4ペアの公開実測は20261008/qa/browser_post_promote_4_pairs.json。残り24ペアを制作する。
-2. RC:Rの外向き右腕を局所制作。既存の右腕を画像右の遠い肩からつなぎ、打点1215,145に届かせる。髪/胴/椅子/脚/左腕は保護。RCの外向き腕donorは保存済み。次はRD:Rの曲げた前腕donorを検証し、LT、FT等へ展開。
-3. BD:RFのペダル接触は原画上の板を実見して決める。古い効果座標735,650はバスドラム面であり足の打点ではない。足をそこへ移動しない。
-4. 全ての残24動作にペア、固定マスク、人体/打点検証、Neutral→Hit→Rebound→Neutralプレビューを作る。候補/不合格を完成数に入れない。
-5. 毎ペアまたは中断前にこの入口・台帳をGitHub更新。無人の無期限バックグラウンド実行を約束しない。
+## 再開手順
+1. 最新mainとこの入口、ledger/motion_matrix.jsonを読む。公開サイトのcache version 20261008-occlusion-r4 と前景レイヤーを確認。8ペア16位相を実測し、人体と打点も画面で確認。
+2. LT:Rの局所腕生成が進行中。scratchに結果がなければcanonical Neutralと固定原画から再生成。赤いガイドは参考だけで完成画像に含めない。LT打面は885,416付近、旧885,455は側面。
+3. HT左右、LT左右、FT左右、BD右足を制作し、合格部位だけ組み合わせて残22ペアを制作。BD旧735,650はドラム面で足の打点ではない。実際のペダル板を使用。
+4. 各ペアで人体・同一人物・Hit接触・Rebound離隔・固定部分を検査し、不合格は修正。GitHubに実体・台帳・失敗理由・次位置を保存する。
+5. 公開Webの全30動作60位相と再生、PC/モバイルを検証。画像の合格と読み込みの合格を区別する。
 
-## 最新追記
-- 旧SN:R不合格PNGはlegacy-rejectedへ保存し、拒否レジストリを旧SHAの保存先へ更新。新しい別画像の正式パスを旧画像の拒否規則で誤拒否しない。
-- SN:Lの実測V2アンカーと画像ハッシュへCIを更新し、変更許可領域外のRGBA差分ゼロを画像そのものから検査する。固定ドラム/Neutralのハッシュは維持。
-- Web同時打撃ラベルの手順序が楽器のソート順と異なる不具合を修正。HH+SN表示はR/Lとなる。
-- RC:RとRC+SN:R/Lの局所Hit/Reboundが静的QA合格。公開反映後の検証待ち。RD:Rの局所Hitを生成中。
-
-- commit41635d06b706d8e399821f9ff80b369c87c3bc19のvalidate、Runtime Pose SN-L Source QAはGitHub Actions SUCCESS。
+## 確定したチェック
+commit41635d06b706d8e399821f9ff80b369c87c3bc19のvalidateとRuntime Pose SN-L Source QAはGitHub Actions SUCCESS。以後の変更は改めて確認。画像の独立したReboundを使うようSN:R設定を修正済み。
